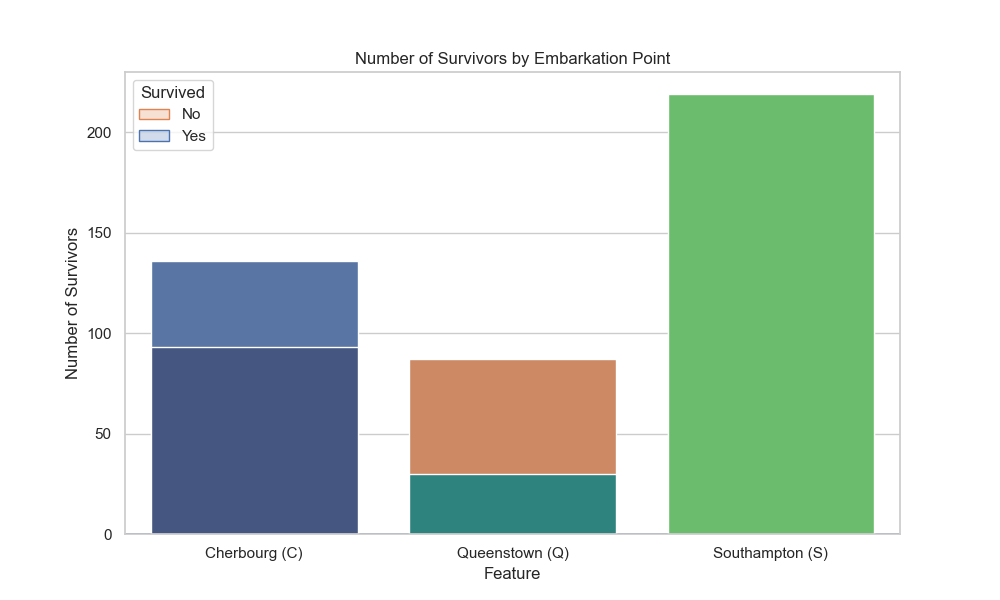
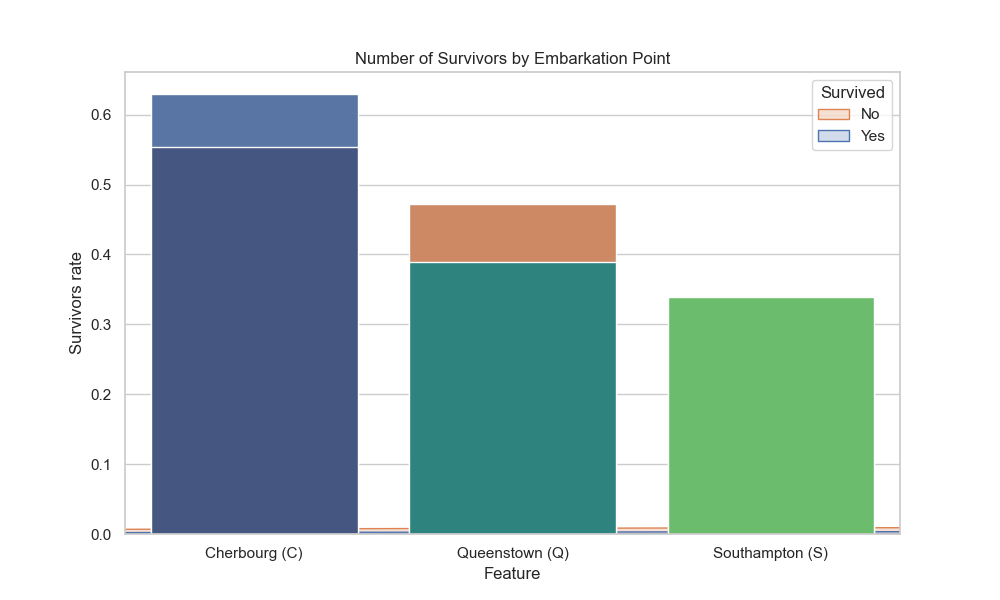
fixing graph

diff --git a/Logistics.py b/Logistics.py
@@ -5,7 +5,7 @@ import matplotlib.pyplot as plt
 from sklearn.model_selection import train_test_split
 from sklearn.linear_model import LogisticRegression
 from sklearn.metrics import accuracy_score, auc, log_loss, roc_auc_score, confusion_matrix, classification_report, roc_curve
-from sklearn.feature_selection import RFE
+from sklearn.feature_selection import RFE, RFECV
 # Load the dataset
 titanic_data_test = pd.read_csv("../data/test.csv",sep=",")
 titanic_data_train = pd.read_csv("../data/train.csv",sep=",")
@@ -104,11 +104,11 @@ titanic_filtered['IsMinor'] = (titanic_filtered['Age'] < 16).astype(int)
 print(titanic_filtered.head())
 #fonction pour les plots
 def plot_survivors(data, feature_columns, feature_labels, title, filename, palette=None):
-    survivors = [data[data[col] == 1]['Survived'].sum() for col in feature_columns]
-    sns.barplot(x=feature_labels, y=survivors, palette=palette)
+    survivor_rates = [data[data[col] == 1]['Survived'].mean() for col in feature_columns]
+    sns.barplot(x=feature_labels, y=survivor_rates, palette=palette)
     plt.title(title)
     plt.xlabel('Feature')
-    plt.ylabel('Number of Survivors')
+    plt.ylabel('Survivors rate')
     plt.savefig(filename)
 
 # for Pclass
@@ -124,24 +124,24 @@ plot_survivors(titanic_filtered, feature_columns_embarked, feature_labels_embark
               'Number of Survivors by Embarkation Point', "survivors_by_embarked.png", "viridis")
 
 # for Traveling Alone feature
+travel_alone_survivor_rate = titanic_filtered[titanic_filtered['TravelAlone'] == 0]['Survived'].mean()
+not_travel_alone_survivor_rate = 1 - travel_alone_survivor_rate
 feature_labels_alone = ['Not Traveling Alone', 'Traveling Alone']
-travel_alone_survivors = titanic_filtered['Survived'].sum() - titanic_filtered[titanic_filtered['TravelAlone'] == 0]['Survived'].sum()
-not_travel_alone_survivors = titanic_filtered[titanic_filtered['TravelAlone'] == 0]['Survived'].sum()
-sns.barplot(x=feature_labels_alone, y=[not_travel_alone_survivors, travel_alone_survivors])
-plt.title('Number of Survivors by Traveling Status')
+sns.barplot(x=feature_labels_alone, y=[not_travel_alone_survivor_rate, travel_alone_survivor_rate])
+plt.title('Survivor Rate by Traveling Status')
 plt.xlabel('Traveling Status')
-plt.ylabel('Number of Survivors')
+plt.ylabel('Survivor Rate')
 plt.savefig("survivors_by_travel_alone.png")
 
 
 # for Gender distribution of survivors
+female_survivor_rate = titanic_filtered[titanic_filtered['Sex_female'] == 1]['Survived'].mean()
+male_survivor_rate = titanic_filtered[titanic_filtered['Sex_male'] == 1]['Survived'].mean()
 feature_labels_gender = ['Female', 'Male']
-female_survivors = titanic_filtered[titanic_filtered['Sex_female'] == 1]['Survived'].sum()
-male_survivors = titanic_filtered[titanic_filtered['Sex_male'] == 1]['Survived'].sum()
-sns.barplot(x=feature_labels_gender, y=[female_survivors, male_survivors], palette="pastel")
-plt.title('Number of Survivors by Gender')
+sns.barplot(x=feature_labels_gender, y=[female_survivor_rate, male_survivor_rate], palette="pastel")
+plt.title('Survivor Rate by Gender')
 plt.xlabel('Gender')
-plt.ylabel('Number of Survivors')
+plt.ylabel('Survivor Rate')
 plt.savefig("survivors_by_gender.png")
 
 
